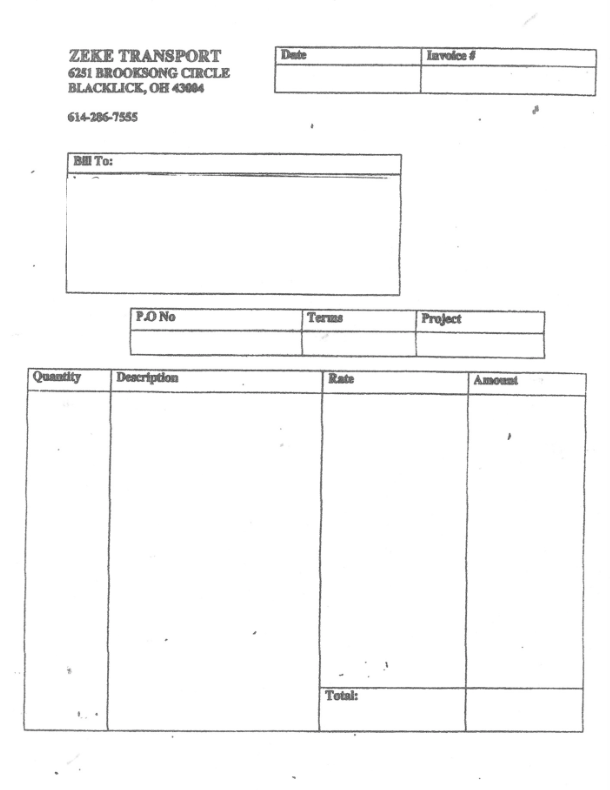
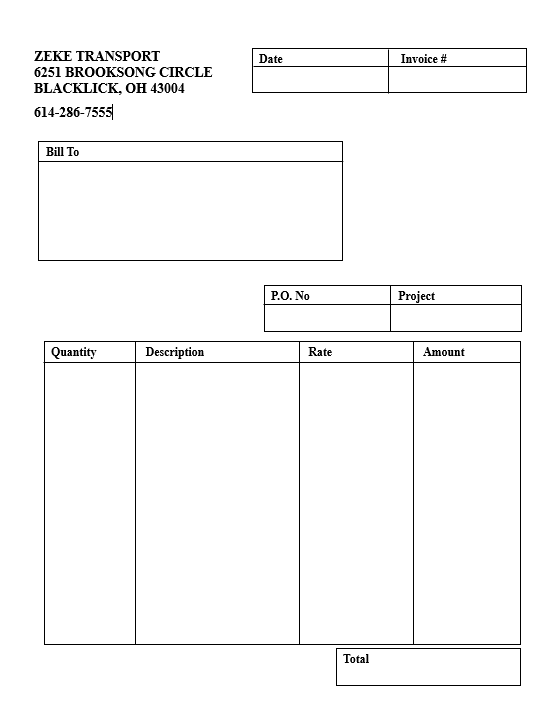
text overlay is absolute so they don't push eachother with text in them

diff --git a/src/app/text_on_image.component.css b/src/app/text_on_image.component.css
@@ -1,5 +1,4 @@
 .container {
-  /* text-align: center; */
   margin-top: 20px;
   display: flex;
   justify-content: center;
@@ -49,39 +48,48 @@ textarea {
   color: black;
   font-size: 24px;
   white-space: pre-wrap;
-  position: relative;
+  position: absolute;
   word-wrap: break-word;
 }
 
 .billTo {
-  top: -880px;
-  left: 170px;
+  top: 350px;
+  left: 150px;
+  /* top: -880px; */
+  /* left: 150px; */
   width: 400px;
+  max-height: 300px;
+  resize: vertical;
   background-color: yellow;
 }
 
 .date {
-  top: -1055px;
-  left: 450px;
-  width: 200px;
+  top: 170px;
+  left: 750px;
+  /* top: -1060px;
+  left: 475px; */
+  width: 150px;
   background-color: pink;
 }
 
 .invoiceNo {
-  top: 23%;
-  left: 33%;
+  top: 170px;
+  left: 950px;
+  width: 150px;
   background-color: rgb(45, 207, 196);
 }
 
 .poBox {
-  top: 33%;
-  left: 23%;
+  top: 550px;
+  left: 750px;
+  width: 150px;
   background-color: pink;
 }
 
 .project {
-  top: 43%;
-  left: 23%;
+  top: -710;
+  left: 670px;
+  width: 150px;
   background-color: rgb(143, 99, 105);
 }
 
